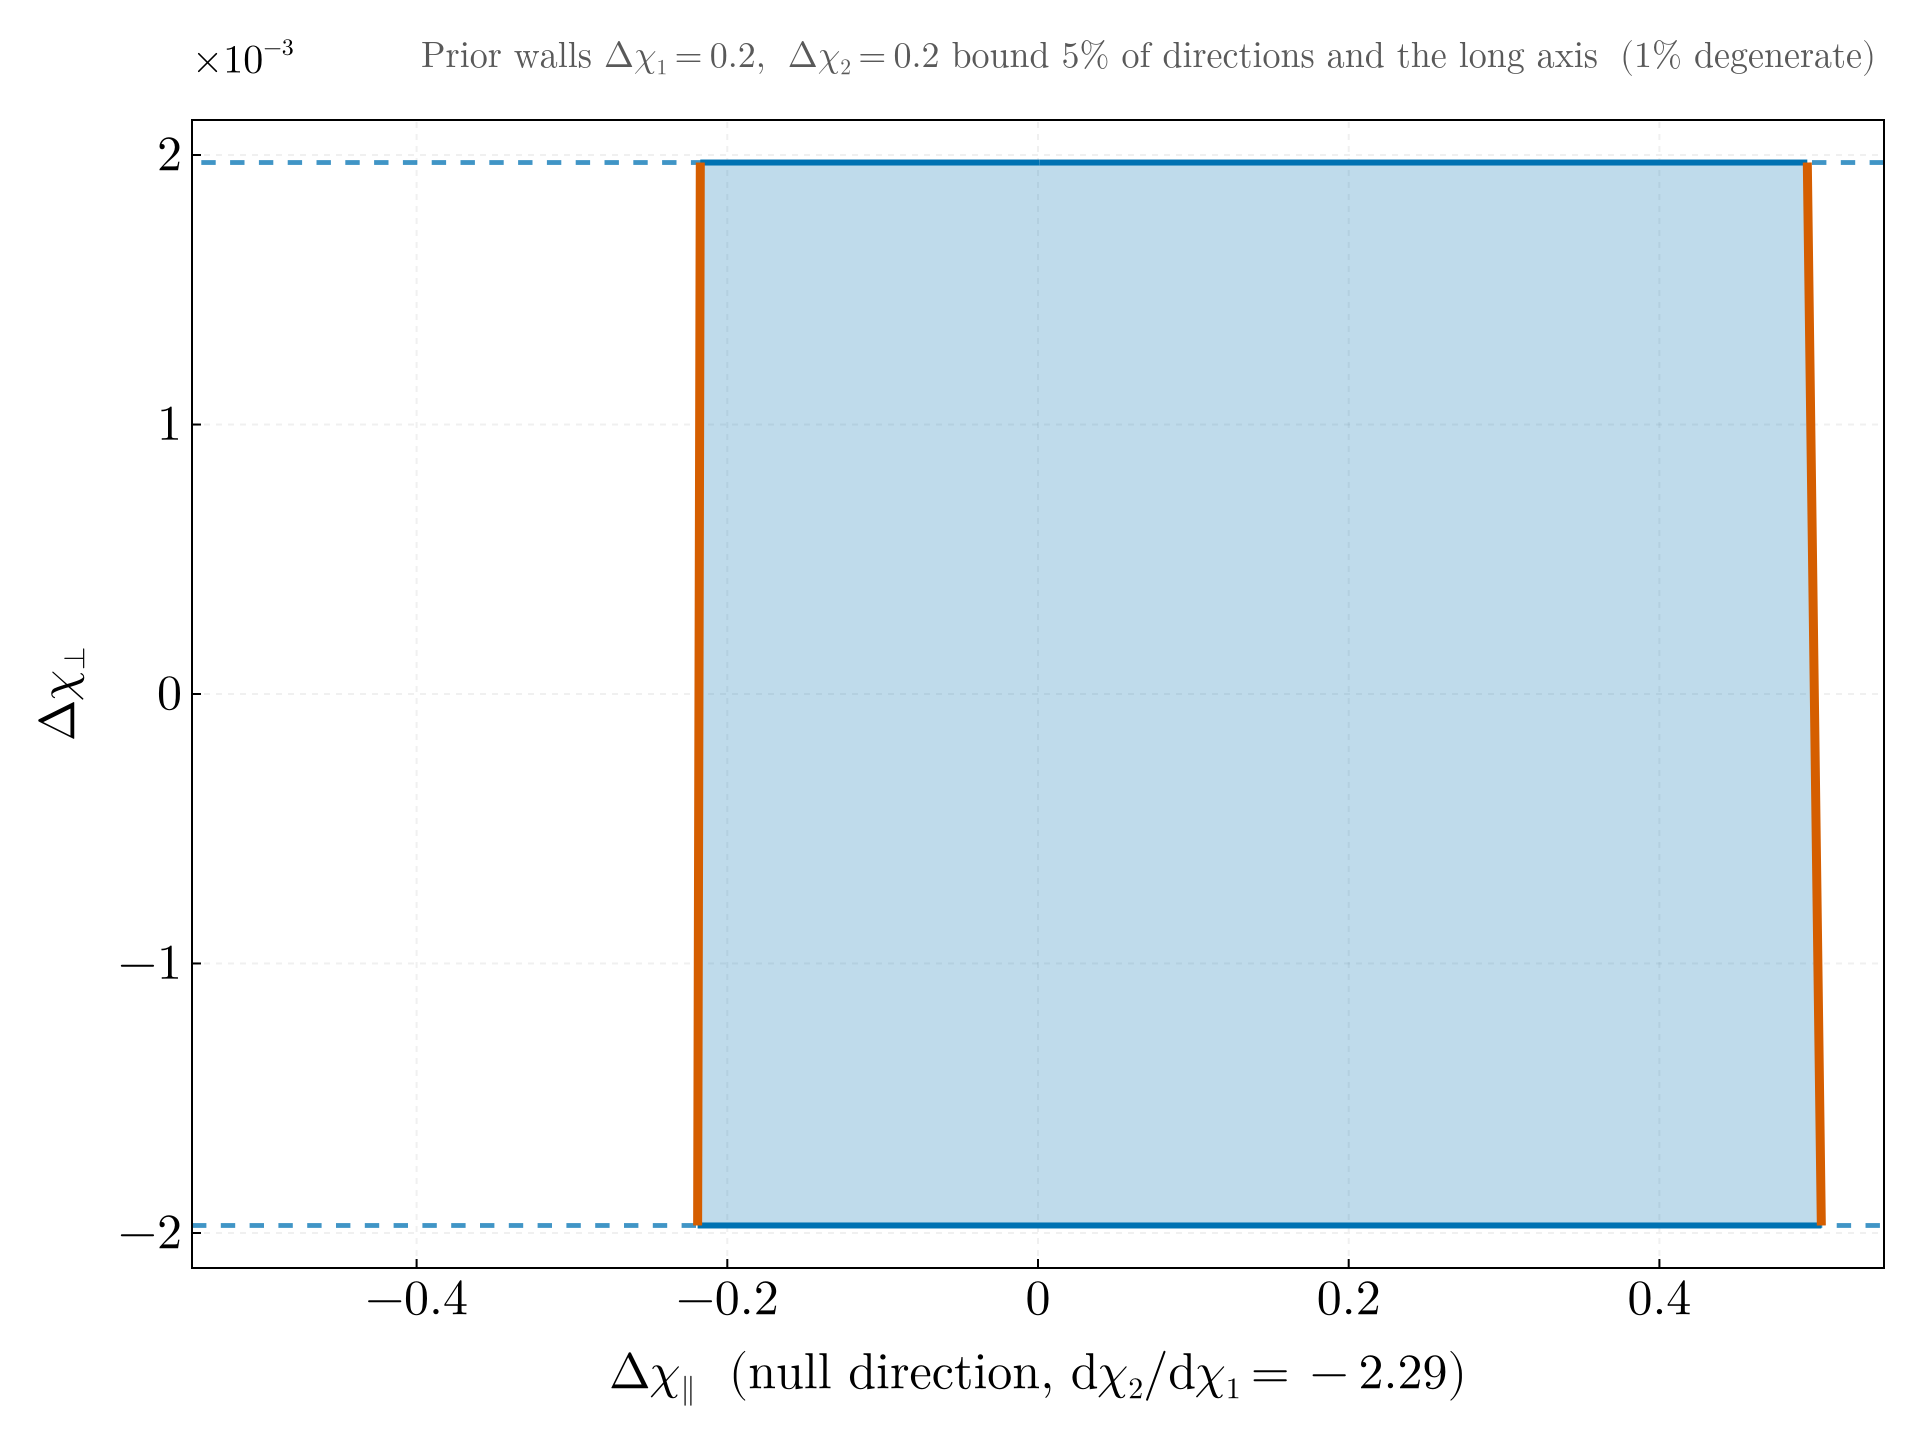
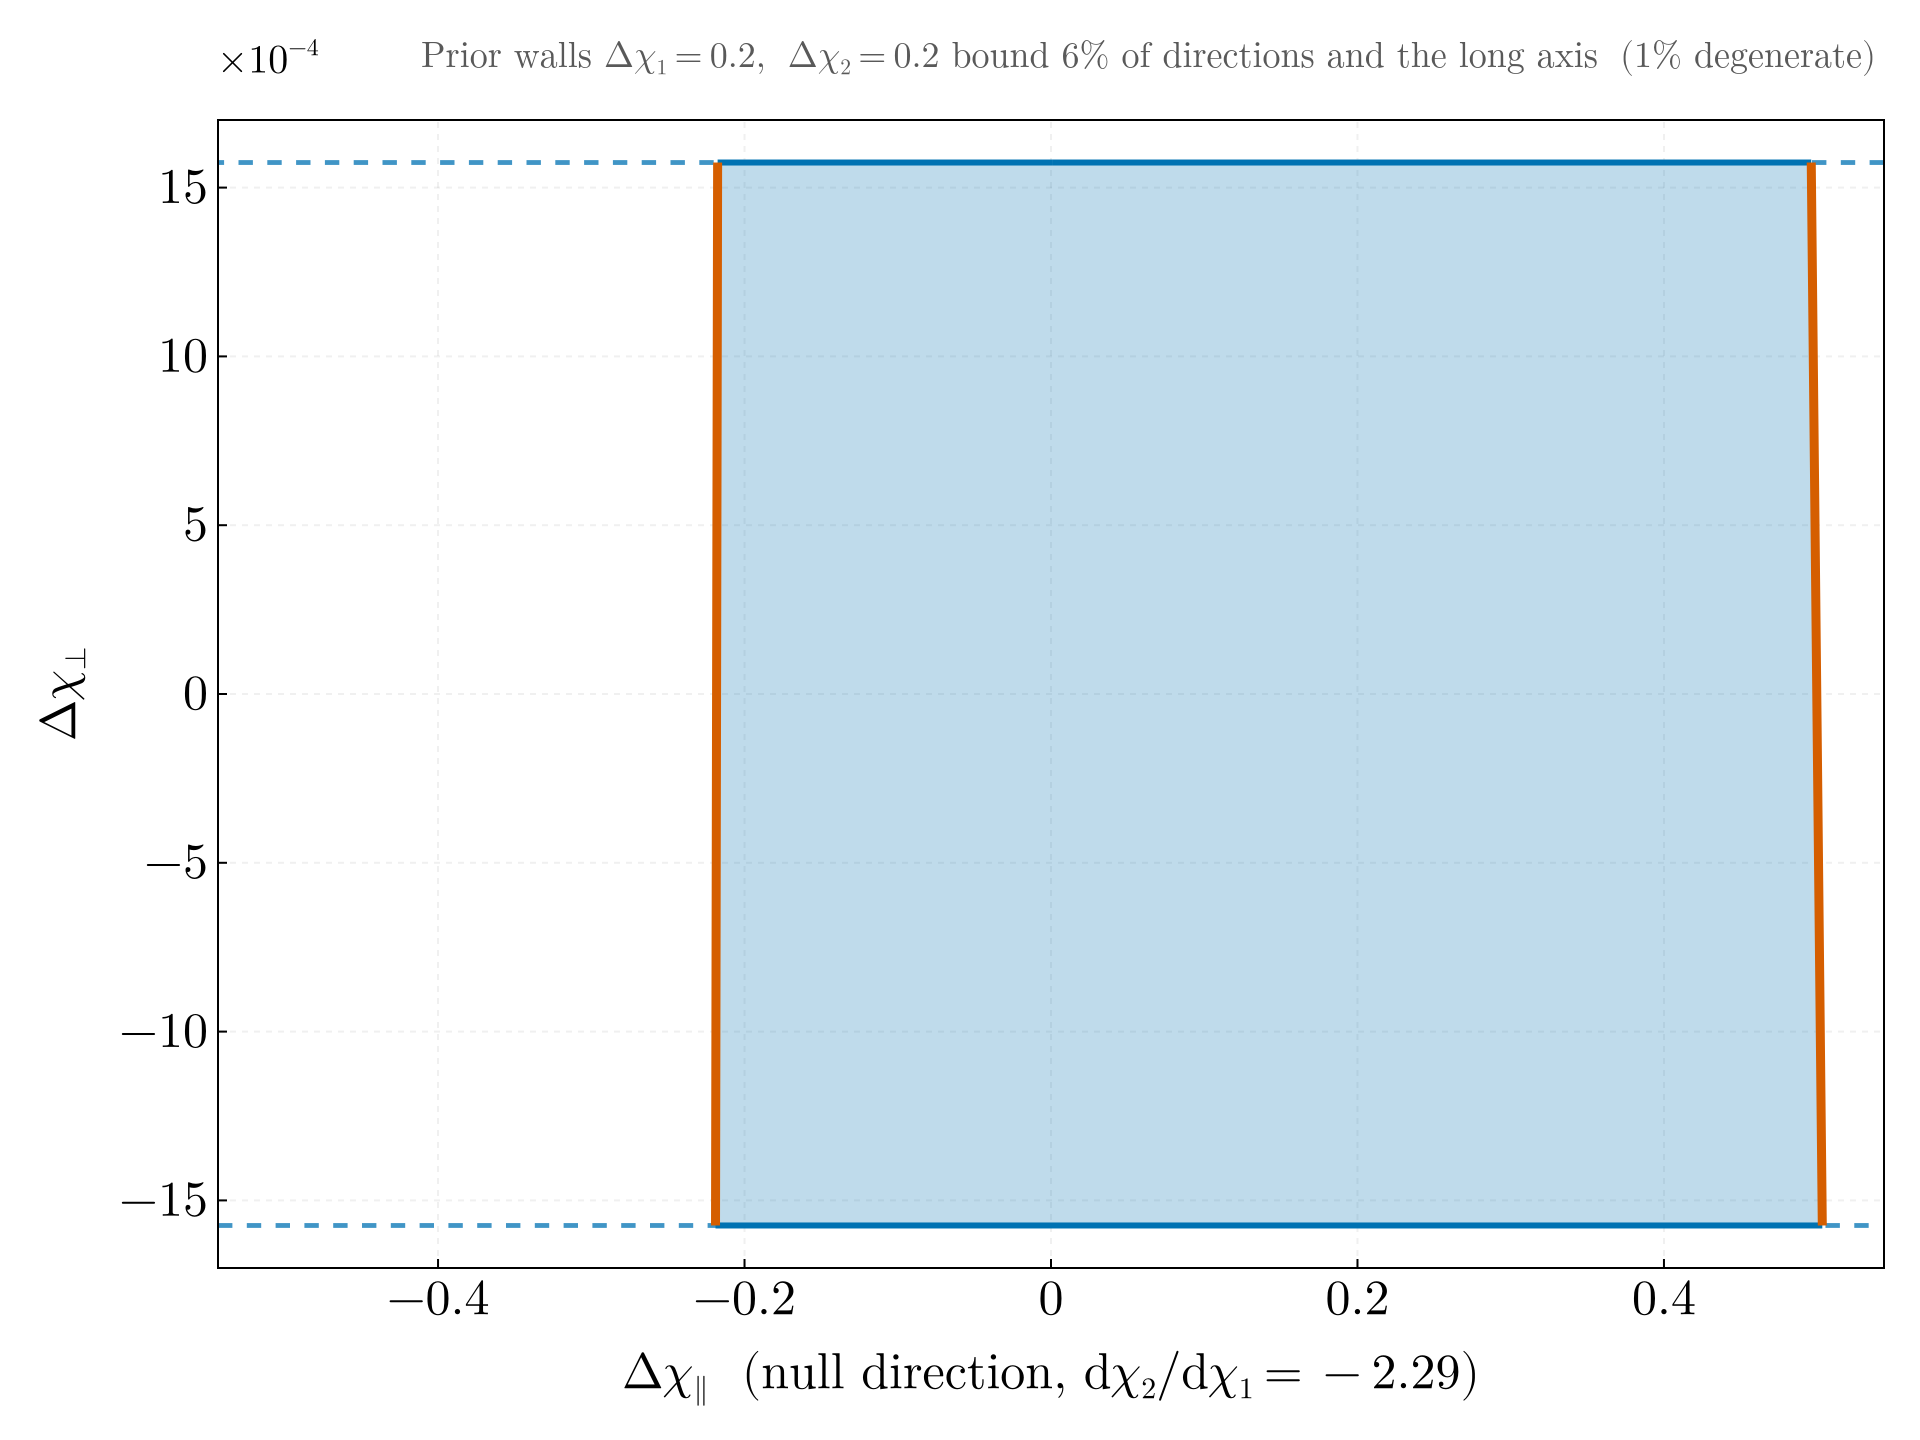
fix!: bring the confusion fit to the channel level of the noise PSD
Robson, Cornish and Liu (2019) calibrate the Eq. 14 Galactic confusion fit
on the two-channel sensitivity curve, S_n = P_n/R + S_c (their Eq. 1),
while the instrumental Eq. 12 term is the PSD of one Michelson channel,
which is what the explicit channel response is weighted against.
analytic_noise_psd added the two at different levels and over-weighted the
confusion term by up to 3.3 below 4 mHz. The per-channel PSD is now
P_n + R(f) S_c with the Eq. 9 response R(f) = (3/10)/(1 + 0.6 (f/f*)^2)
(new sky_averaged_response), so that S_I/R reproduces the published
sensitivity curve and the sky- and polarization-averaged A + E
signal-to-noise ratio agrees with it.

Every D^2, delta_min and zone extent computed with earlier versions
changes: on the shipped base points the squared signal-to-noise ratios
rise by 9 % (light sources) to a factor 2.9 (8e5 solar-mass binaries) and
the Fisher norms by factors between 1.0 and 3.0 per axis. The fitted
exponents of the quartic law and the run timings are unaffected. Run
identifiers hash the configuration and are unchanged; earlier results
under the same identifier are told apart by the commit in metadata.toml.

Closure test against Eq. 13 + Eq. 14 added; documentation, README and
CHANGELOG updated; README and landing figures regenerated from the
quickstart run.

diff --git a/docs/src/physics.md b/docs/src/physics.md
@@ -255,11 +255,26 @@ the observation time (1 yr: ``\alpha=0.171``, ``\beta=292``, ``\kappa=1020``,
 ``\gamma=1680``, ``f_k=2.15`` mHz) and overridable in `[noise]`. ``S_c`` depends on ``f`` and on
 the observation time only: the confusion term is stationary, and the annual
 modulation of the Galactic foreground by the constellation motion is not
-represented. The
-sky-averaged response ``3/10`` of their Eq. 13 is not applied to the noise,
-because the response is modelled explicitly in §6, where its roll-off
-factor appears instead. The confusion fit is calibrated for observation
-times between 0.5 and 4 yr; shorter grids use the nearest column.
+represented.
+
+The two terms are defined at different levels. ``P_n`` is the noise of one
+channel and is used as such: the sky- and polarization-averaged response
+``R(f)`` of their Eq. 9 is not applied to it, because the response is
+modelled explicitly in §6, where its roll-off factor appears instead. The
+confusion fit, by contrast, is calibrated on the two-channel sensitivity
+curve, ``S_n = P_n/R + S_c`` (their Eq. 1; the amplitude ``A`` is quoted for
+two channels), so it enters the per-channel PSD multiplied by the response:
+```math
+S_I(f) = P_n(f) + R(f)\, S_c(f), \qquad R(f) = \frac{3}{10}\,\frac{1}{1 + 0.6\,(f/f_\star)^2},
+```
+the same weight for ``I = A, E``
+([`sky_averaged_response`](@ref CurvatureDistinguishability.Physics.sky_averaged_response)).
+Dividing ``S_I`` by ``R`` recovers the published sensitivity curve (their
+Eq. 13 + Eq. 14), and the sky- and polarization-averaged ``A + E``
+signal-to-noise ratio of §6 equals the one computed from that curve. After
+the conversion the Galactic term still exceeds ``P_n`` by an order of
+magnitude at 1 mHz. The confusion fit is calibrated for observation times
+between 0.5 and 4 yr; shorter grids use the nearest column.
 
 ## 8. Domain of validity
 

diff --git a/CHANGELOG.md b/CHANGELOG.md
@@ -6,6 +6,37 @@ adheres to [Semantic Versioning](https://semver.org/spec/v2.0.0.html).
 
 ## [Unreleased]
 
+### Fixed
+
+- The Galactic confusion term entered the noise PSD at the wrong level.
+  Robson et al. (2019) calibrate their Eq. 14 fit on the two-channel
+  sensitivity curve, S_n = P_n/R + S_c (their Eq. 1), whereas the
+  instrumental Eq. 12 term is the PSD of one channel, against which the
+  explicit channel response is weighted. `analytic_noise_psd` now adds
+  R(f)·S_c(f) with the Eq. 9 response R(f) = (3/10)/(1 + 0.6 (f/f★)²), so
+  that the per-channel PSD divided by R(f) is the published sensitivity
+  curve and the sky- and polarization-averaged A + E signal-to-noise ratio
+  coincides with the one computed from it. Below 4 mHz the confusion term
+  was over-weighted by up to 3.3. On the shipped base points the squared
+  signal-to-noise ratios rise by 9 % (the two light sources) to a factor
+  2.9 (the 8×10⁵ M☉ binaries), Fisher norms by factors between 1.0 and 3.0
+  depending on the axis, and every D², δ_min and zone extent computed with
+  earlier versions changes accordingly; the fitted exponents of the quartic
+  law and the run timings do not. Run identifiers hash the configuration,
+  not the code, and are unchanged: results of earlier versions under the
+  same identifier are told apart by the commit in their `metadata.toml`.
+
+### Added
+
+- `sky_averaged_response(f, arm_length)`: Robson et al. (2019) Eq. 9.
+- Closure test of the noise model against the published sensitivity curve
+  (Eq. 13 + Eq. 14).
+
+### Changed
+
+- The README and documentation landing figures are regenerated from the
+  quickstart run under the corrected noise weighting.
+
 ## [1.1.0] - 2026-09-23
 
 ### Added

diff --git a/README.md b/README.md
@@ -176,7 +176,7 @@ failed (the remaining stages still run and the failures are listed in
 | Component | Status |
 |---|---|
 | Physics / Detector / Geometry / Inference | unit-tested; A/B-locked against committed reference fixtures |
-| Robson (2019) noise model (Eq. 12 instrumental + Eq. 14 confusion, Table 1) | active by default; `[noise].confusion_enabled = false` for instrumental-only studies |
+| Robson (2019) noise model (per-channel Eq. 12 instrumental + Eq. 14 confusion through the Eq. 9 response, Table 1) | active by default; `[noise].confusion_enabled = false` for instrumental-only studies |
 | Box-constrained optimization (`IPNewton`; `lbfgs_box` fallback) | tested, physical bounds enforced |
 | 2D mapping (mirrored, prior-capped, adaptively refined) | tested end-to-end |
 | GPU path (KernelAbstractions kernel + package extensions) | validated against the CPU reference on CUDA, ROCm and oneAPI hardware: optimized distances agree to 3×10⁻⁴ or better above the optimizer floor, 2×10⁻⁴ away from the near-null spin direction; see Known limitations |

diff --git a/docs/src/architecture.md b/docs/src/architecture.md
@@ -28,9 +28,11 @@ D^2 \approx \frac{1}{16} K(u) \delta^4 .
   protection). Physical parameters live *only* in the TOML; the source
   carries physical constants (arm length, AU, year) and published-fit
   defaults.
-- **`Physics.jl`** — the Robson et al. (2019) noise model: instrumental
-  Eq. 12 plus the Eq. 14 galactic-confusion fit with Table-1 coefficients
-  selected by observation time (all overridable in `[noise]`); the physical
+- **`Physics.jl`** — the Robson et al. (2019) noise model: the per-channel
+  instrumental Eq. 12 plus the Eq. 14 galactic-confusion fit, a two-channel
+  sensitivity-level fit brought to the channel level by the Eq. 9 response,
+  with Table-1 coefficients selected by observation time (all overridable in
+  `[noise]`); the physical
   constants (arm length, AU, year, Gpc); and the scalar source-frame
   waveform: TaylorF2 phasing to 1.5PN (`pn_phase`, `harmonic_phase`,
   `spin_beta`), the 0.5PN harmonic amplitudes (`harmonic_amplitudes`), the

diff --git a/docs/src/api.md b/docs/src/api.md
@@ -37,6 +37,7 @@ CurvatureDistinguishability.RunFigures
 CurvatureDistinguishability.Physics.NoiseParams
 CurvatureDistinguishability.Physics.robson_confusion_params
 CurvatureDistinguishability.Physics.analytic_noise_psd
+CurvatureDistinguishability.Physics.sky_averaged_response
 CurvatureDistinguishability.Physics.WaveformParams
 CurvatureDistinguishability.Physics.ResponseGeometry
 CurvatureDistinguishability.Physics.waveform_params
